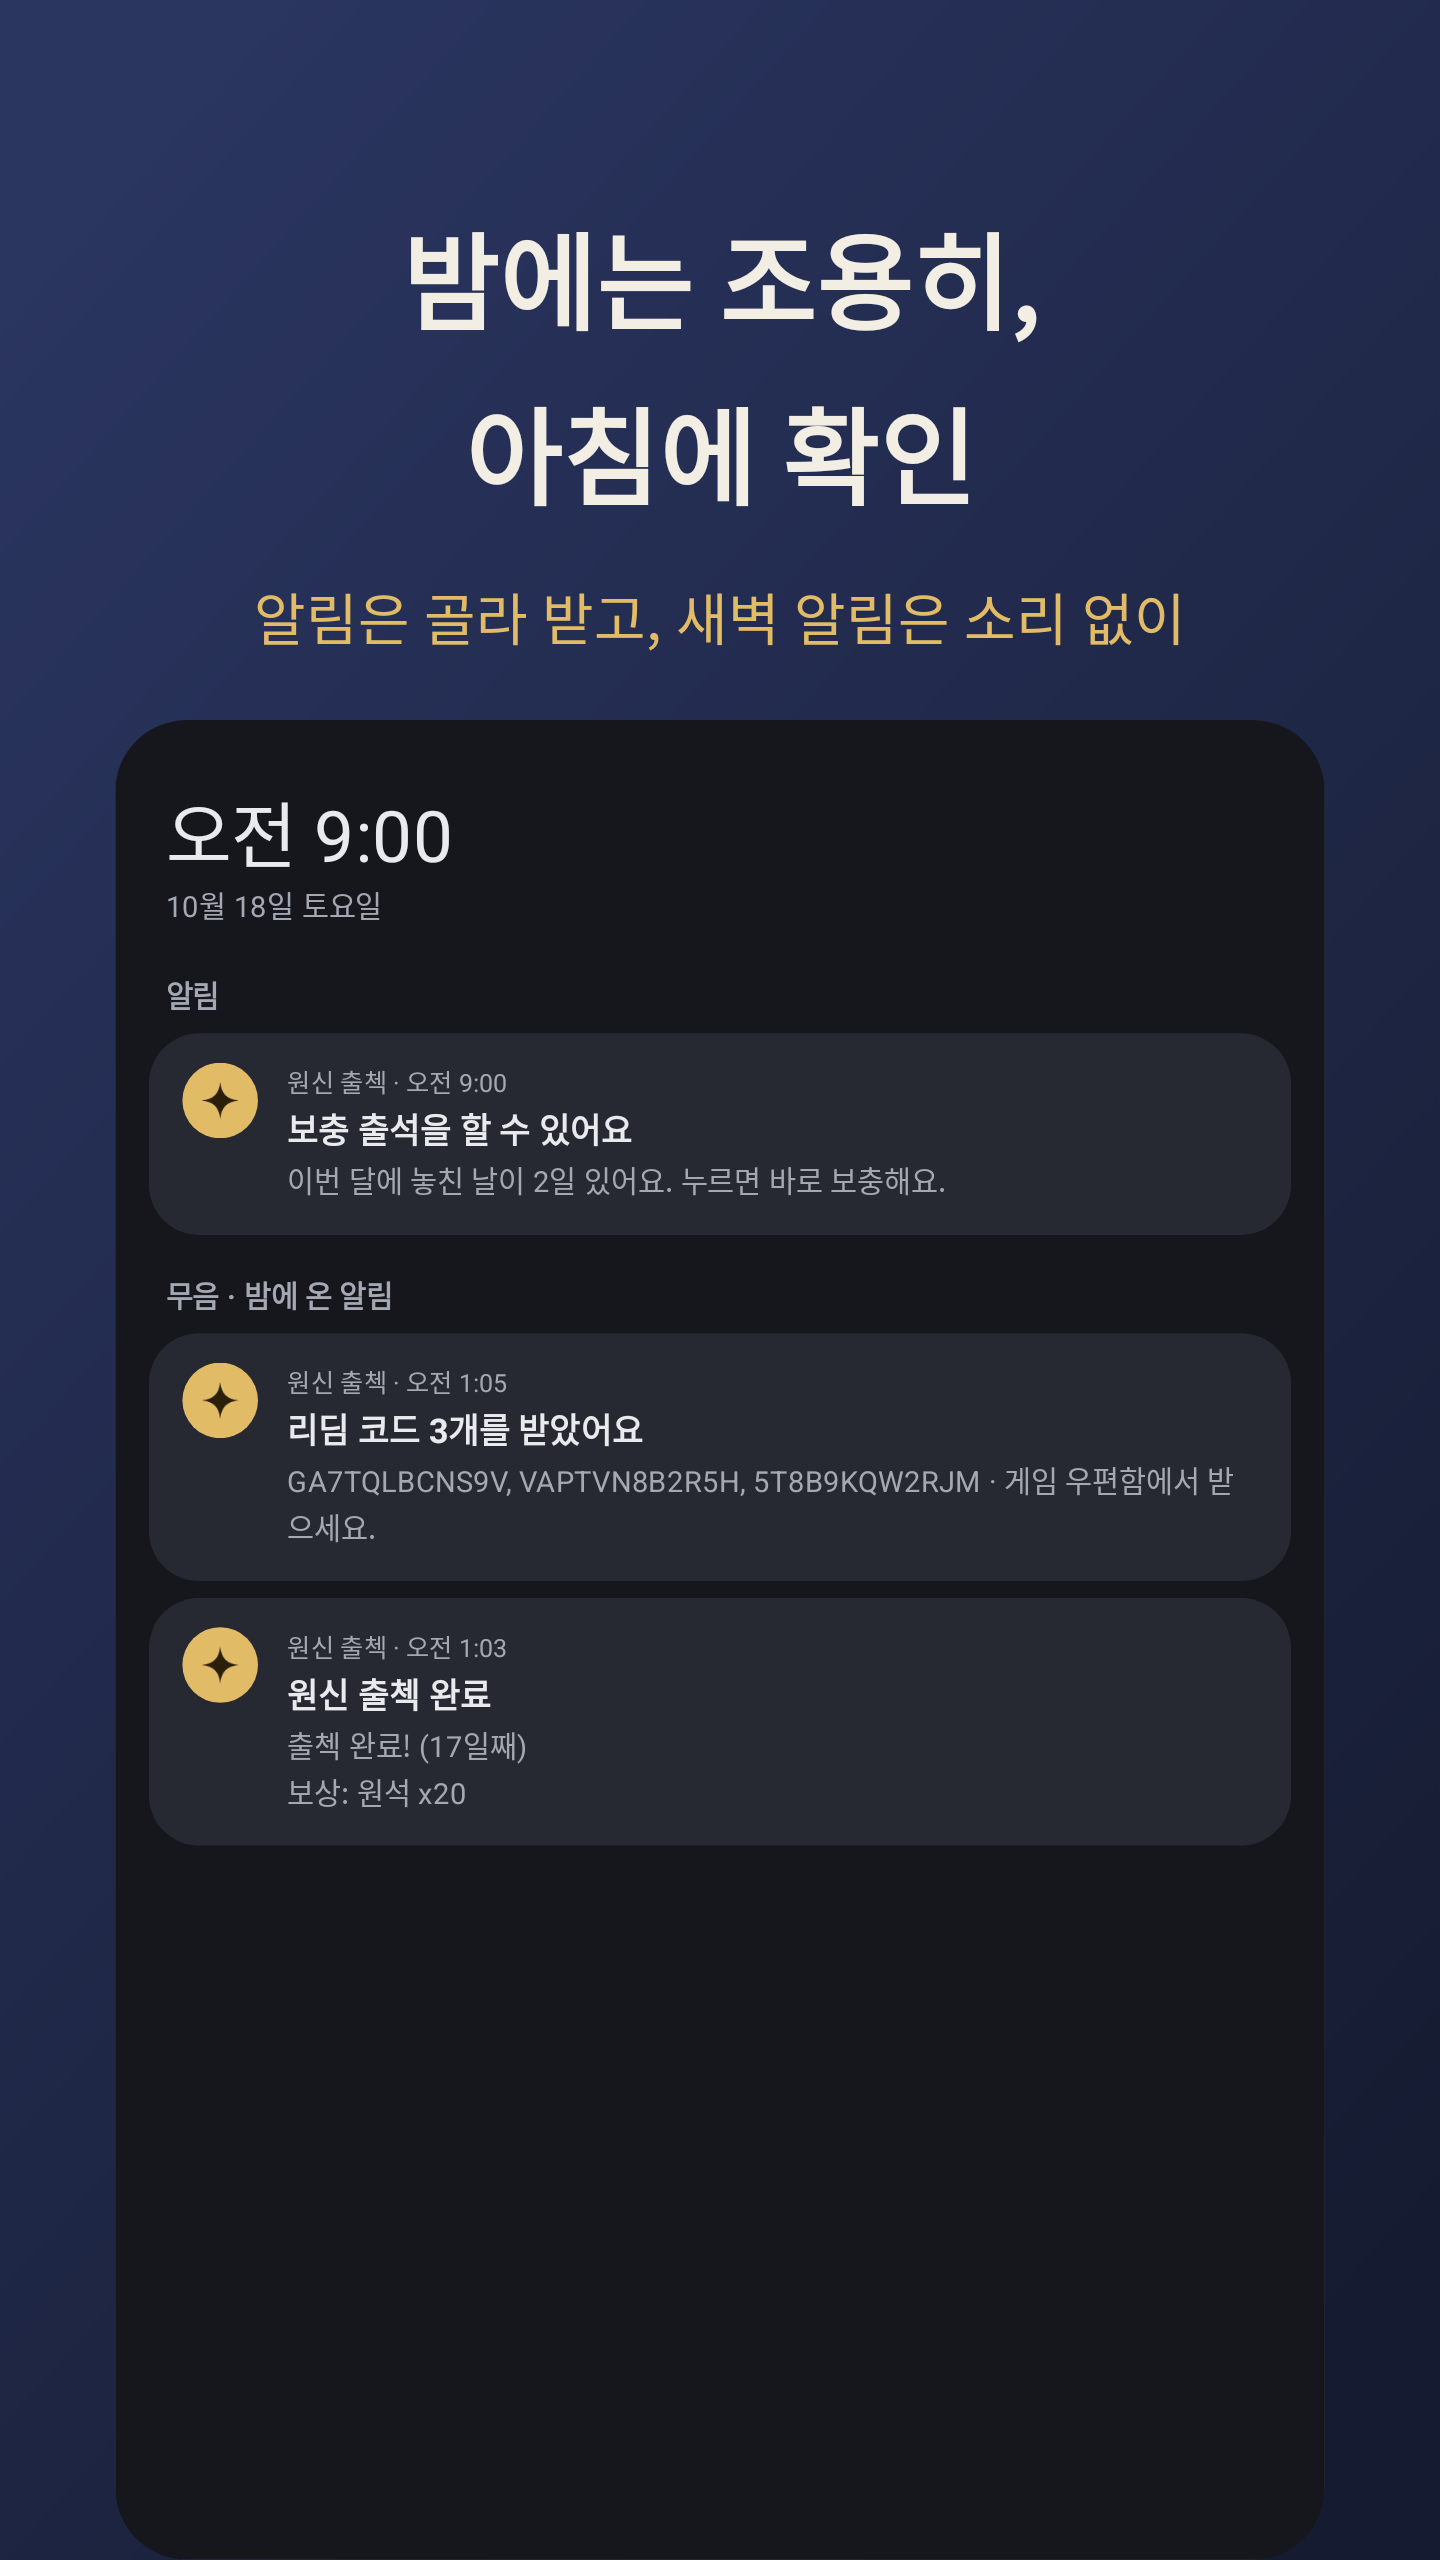
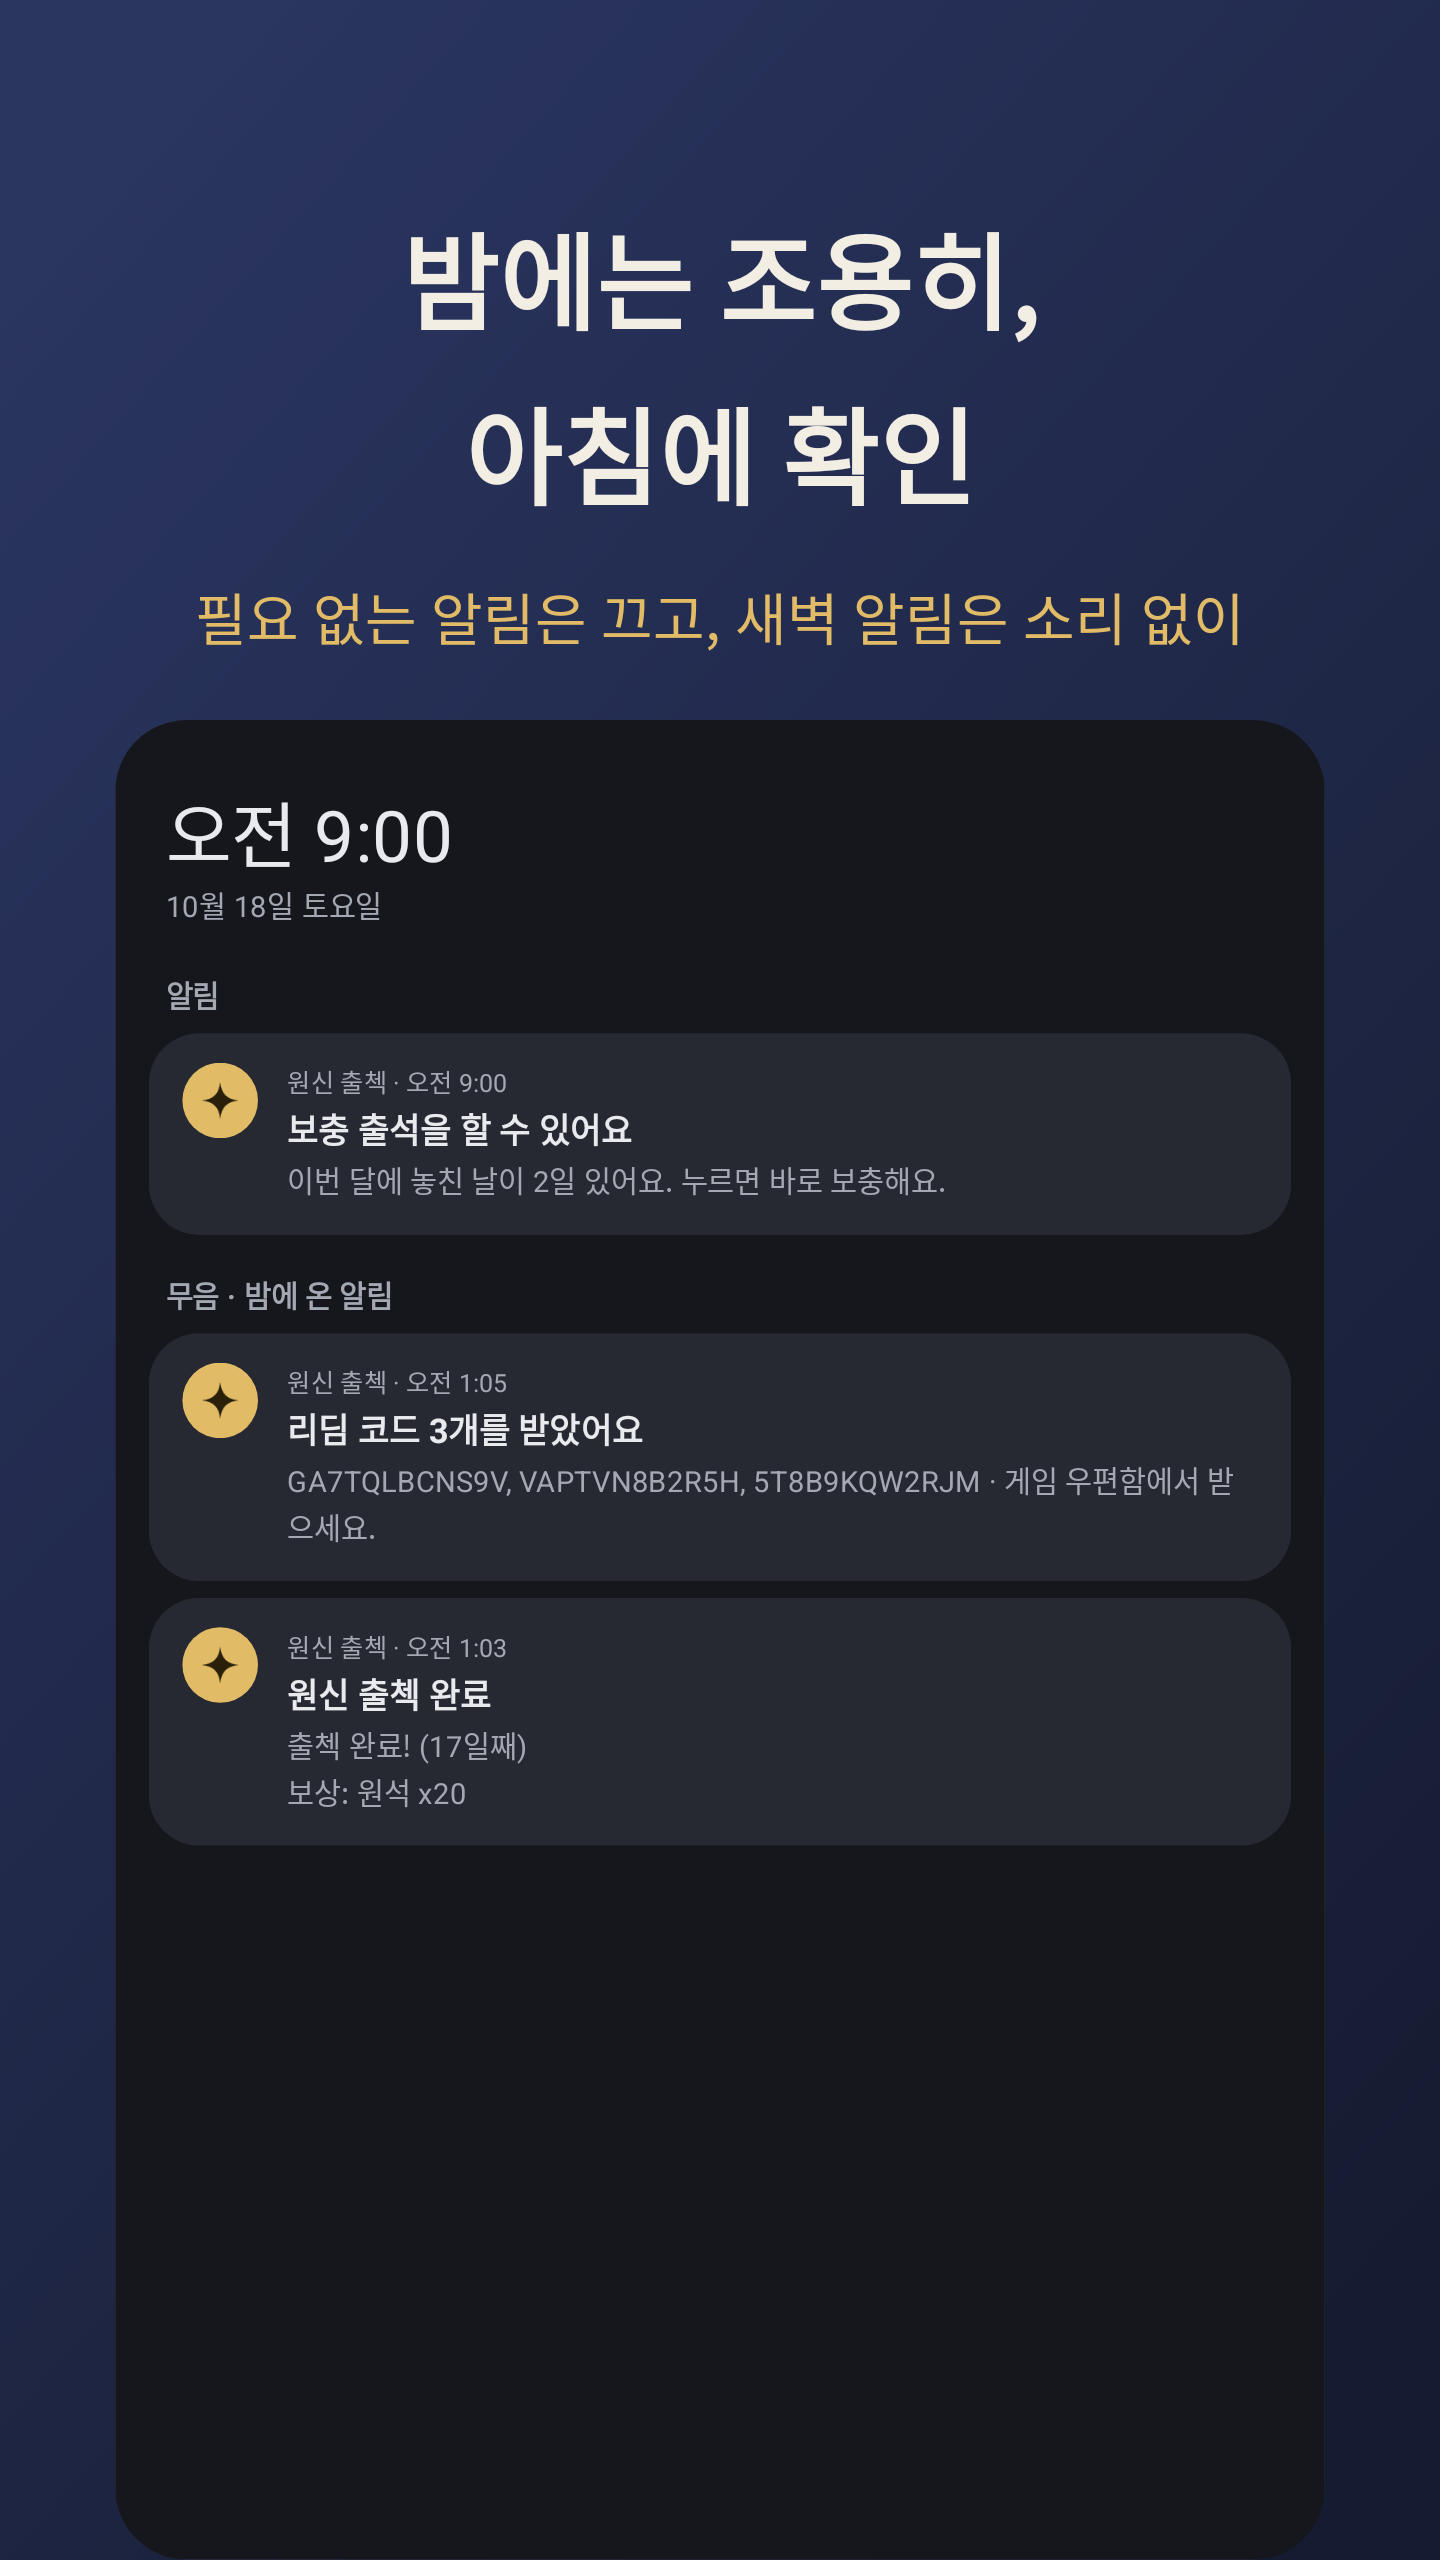
알림을 끌 수 있다는 점을 분명히(스토어 설명·알림 장면·소개 페이지)
Claude-Session: https://claude.ai/code/session_01AVkzu9p2ytMeGHejvvs68H

Changed region(s): [[0.125, 0.2188, 0.875, 0.25]]

diff --git a/app/src/test/java/kr/sumi/checkin/StoreAssetsTest.kt b/app/src/test/java/kr/sumi/checkin/StoreAssetsTest.kt
@@ -314,7 +314,7 @@ class StoreAssetsTest {
 
     @Test fun screenshot5Alerts() = screenshot(
         signed, night = false, custom = { notificationShade(it) },
-        title = "밤에는 조용히,\n아침에 확인", sub = "알림은 골라 받고, 새벽 알림은 소리 없이",
+        title = "밤에는 조용히,\n아침에 확인", sub = "필요 없는 알림은 끄고, 새벽 알림은 소리 없이",
     )
 
     @Test fun screenshot6Dark() = screenshot(
@@ -349,7 +349,7 @@ class StoreAssetsTest {
 
     @Test fun tablet5Alerts() = screenshot(
         signed, night = false, custom = { notificationShade(it) }, tablet = true,
-        title = "밤에는 조용히,\n아침에 확인", sub = "알림은 골라 받고, 새벽 알림은 소리 없이",
+        title = "밤에는 조용히,\n아침에 확인", sub = "필요 없는 알림은 끄고, 새벽 알림은 소리 없이",
     )
 
     @Test fun tablet6Dark() = screenshot(

diff --git a/store/site/checkin/index.html b/store/site/checkin/index.html
@@ -61,7 +61,7 @@
     <li><strong>새벽 1시 자동 출석</strong> 폰 시계가 아니라 호요랩 서버 시각에 맞춰, 날짜가 바뀐 직후에 출석해요.</li>
     <li><strong>보상 내역</strong> 이번 달 받은 원석·모라와 리딤 코드로 받은 보상의 합계를 한눈에 봐요.</li>
     <li><strong>보충 출석</strong> 놓친 날이 있으면 알려 주고, 누르면 바로 보충해요.</li>
-    <li><strong>여러 계정, 알림 골라 받기</strong> 계정을 여러 개 등록할 수 있고, 알림을 골라 받으며 밤에는 소리 없이 알려요.</li>
+    <li><strong>여러 계정, 알림 골라 받기</strong> 계정을 여러 개 등록할 수 있어요. 알림은 종류별로 끌 수 있고, 켜 둔 알림도 밤에는 소리 없이 와요.</li>
   </ul>
 
   <h2>안심하고 쓰세요</h2>
